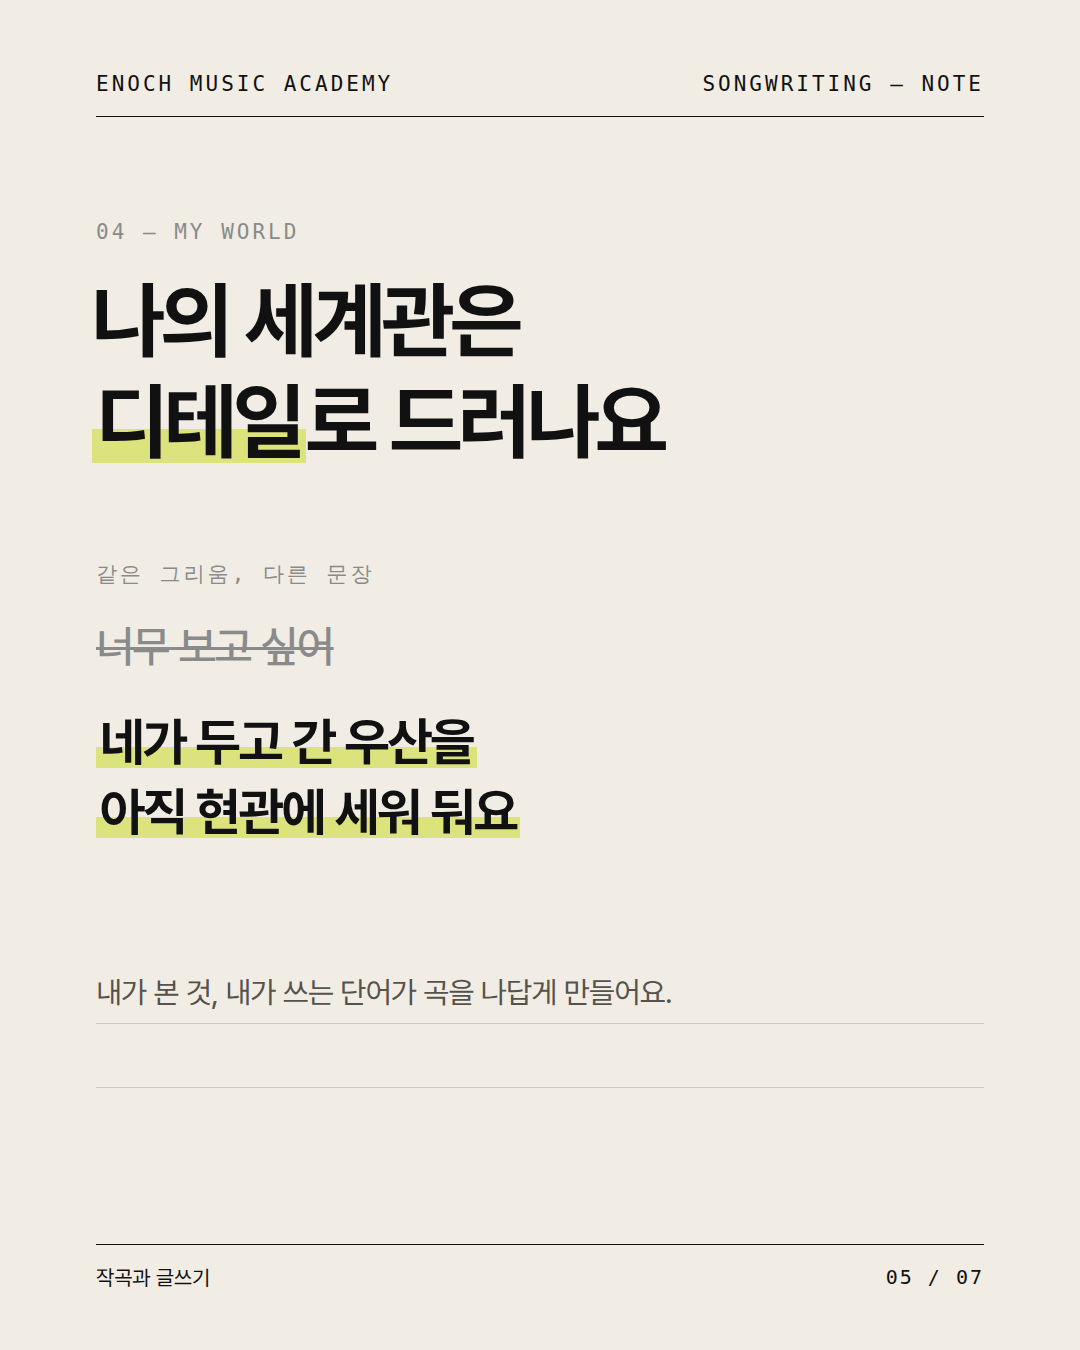
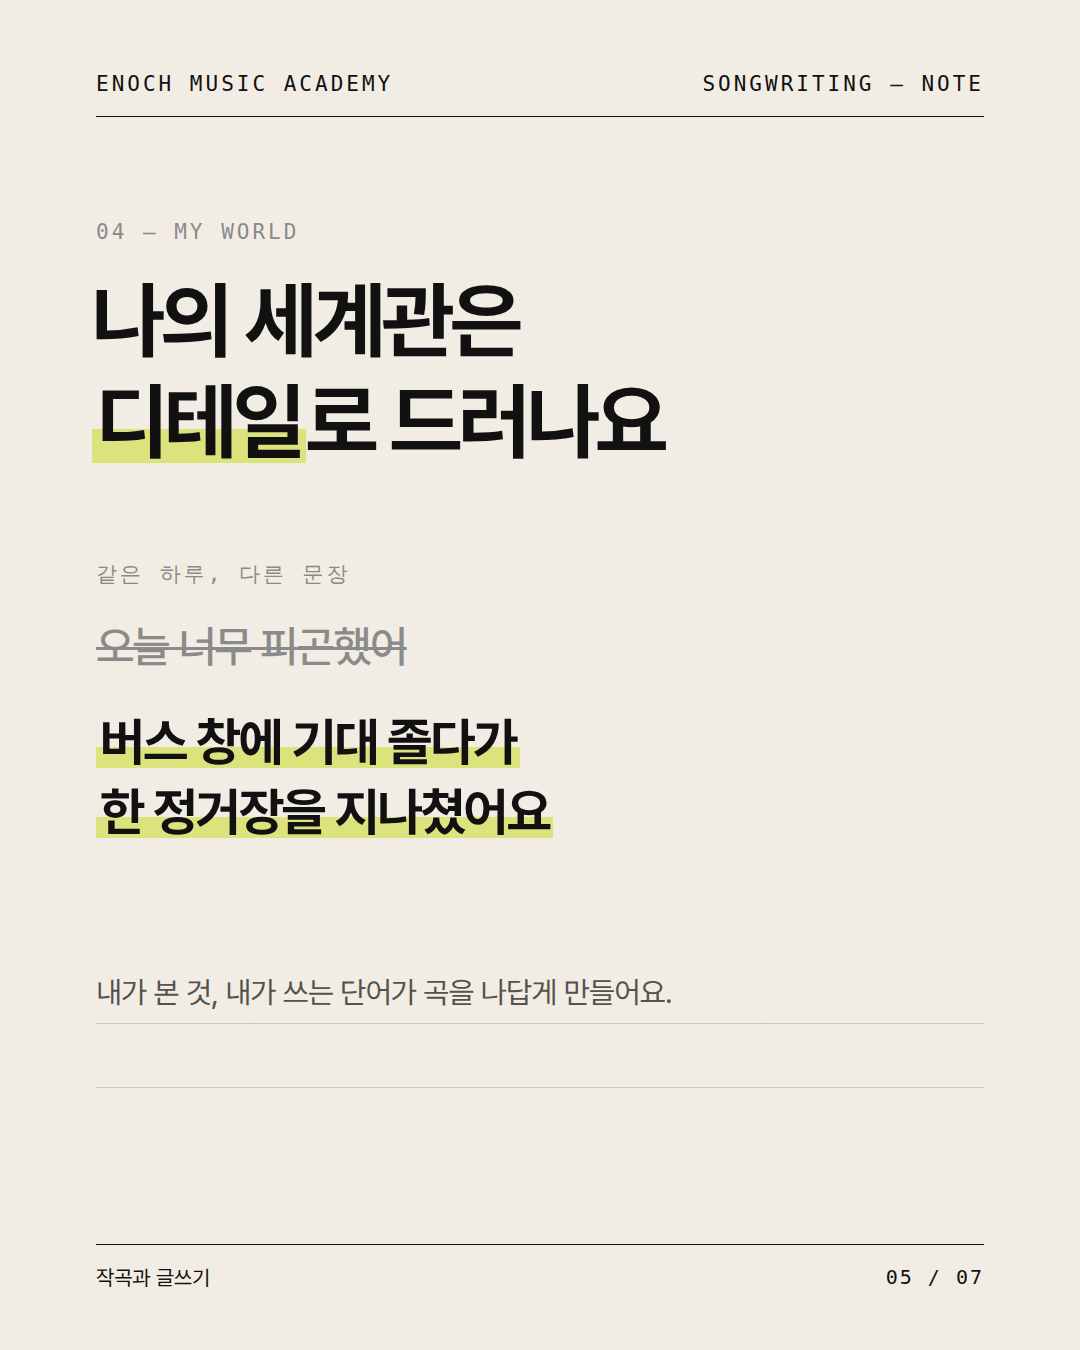
작곡과 글쓰기: 5장 예시 문장을 담백한 일상(같은 하루)으로 교체
Claude-Session: https://claude.ai/code/session_01HGbZvgMeYrbU7mY8bwfjyb

Changed region(s): [[0.0917, 0.5289, 0.5194, 0.6222], [0.0917, 0.4667, 0.3972, 0.4978], [0.1528, 0.4044, 0.3361, 0.4356]]

diff --git a/output/작곡_글쓰기의힘/deck_note.html b/output/작곡_글쓰기의힘/deck_note.html
@@ -69,10 +69,10 @@ mark{background:linear-gradient(transparent 58%,var(--lime) 58%,var(--lime) 92%,
   <div class="hd"><span>ENOCH MUSIC ACADEMY</span><span>SONGWRITING — NOTE</span></div>
   <div class="k" style="position:absolute;left:96px;top:220px">04 — My World</div>
   <div class="h" style="position:absolute;left:92px;top:270px">나의 세계관은<br><mark>디테일</mark>로 드러나요</div>
-  <div class="k" style="position:absolute;left:96px;top:560px">같은 그리움, 다른 문장</div>
+  <div class="k" style="position:absolute;left:96px;top:560px">같은 하루, 다른 문장</div>
   <div style="position:absolute;left:96px;right:96px;top:620px">
-    <div class="del" style="font-size:44px;font-weight:500;letter-spacing:-1.5px">너무 보고 싶어</div>
-    <div style="margin-top:34px;font-size:52px;font-weight:700;letter-spacing:-2px;line-height:1.35"><mark>네가 두고 간 우산을</mark><br><mark>아직 현관에 세워 둬요</mark></div>
+    <div class="del" style="font-size:44px;font-weight:500;letter-spacing:-1.5px">오늘 너무 피곤했어</div>
+    <div style="margin-top:34px;font-size:52px;font-weight:700;letter-spacing:-2px;line-height:1.35"><mark>버스 창에 기대 졸다가</mark><br><mark>한 정거장을 지나쳤어요</mark></div>
   </div>
   <div class="note" style="top:960px;height:128px"><p>내가 본 것, 내가 쓰는 단어가 곡을 나답게 만들어요.</p></div>
   <div class="ft"><span>작곡과 글쓰기</span><span>05 / 07</span></div>

diff --git a/output/작곡_글쓰기의힘/deck.html b/output/작곡_글쓰기의힘/deck.html
@@ -108,10 +108,10 @@
   <div class="hl" style="top:220px">나의 세계관은<br>디테일로 드러나요.</div>
   <div class="card" style="top:540px">
     <div class="meta" style="margin-top:0">04 · DETAIL</div>
-    <div class="ct">같은 그리움, 다른 문장</div>
+    <div class="ct">같은 하루, 다른 문장</div>
     <div class="cmp">
-      <div class="q q1"><small>누구나 쓰는 문장</small>너무 보고 싶어</div>
-      <div class="q q2"><small>나만 쓸 수 있는 문장</small>네가 두고 간 우산을<br>아직 현관에 세워 둬요</div>
+      <div class="q q1"><small>누구나 쓰는 문장</small>오늘 너무 피곤했어</div>
+      <div class="q q2"><small>나만 쓸 수 있는 문장</small>버스 창에 기대 졸다가<br>한 정거장을 지나쳤어요</div>
     </div>
     <div class="body" style="margin-top:22px;font-size:28px;color:var(--g)">내가 본 것, 내가 쓰는 단어가 곡을 나답게 만들어요.</div>
   </div>

diff --git a/output/작곡_글쓰기의힘/deck_editorial.html b/output/작곡_글쓰기의힘/deck_editorial.html
@@ -135,10 +135,10 @@
   <div class="hl" style="top:220px">나의 세계관은<br>디테일로 드러나요.</div>
   <div class="card" style="top:540px">
     <div class="meta" style="margin-top:0">04 · DETAIL</div>
-    <div class="ct">같은 그리움, 다른 문장</div>
+    <div class="ct">같은 하루, 다른 문장</div>
     <div class="cmp">
-      <div class="q q1"><small>누구나 쓰는 문장</small>너무 보고 싶어</div>
-      <div class="q q2"><small>나만 쓸 수 있는 문장</small>네가 두고 간 우산을<br>아직 현관에 세워 둬요</div>
+      <div class="q q1"><small>누구나 쓰는 문장</small>오늘 너무 피곤했어</div>
+      <div class="q q2"><small>나만 쓸 수 있는 문장</small>버스 창에 기대 졸다가<br>한 정거장을 지나쳤어요</div>
     </div>
     <div class="body" style="margin-top:22px;font-size:28px;color:var(--g)">내가 본 것, 내가 쓰는 단어가 곡을 나답게 만들어요.</div>
   </div>

diff --git a/output/작곡_글쓰기의힘/caption.md b/output/작곡_글쓰기의힘/caption.md
@@ -5,7 +5,7 @@
 
 같은 코드 진행으로도 수많은 곡이 만들어지지만, 곡을 다르게 만드는 건 그 안에 담긴 이야기예요. ENOCH 작곡 수업은 모든 과정이 1:1이라, 한 사람의 이야기에 맞춰 수업해요.
 
-매일 읽으면 같은 감정을 다르게 말하는 방법이 늘어나고, 매일 쓰면 내 말투가 생겨요. "너무 보고 싶어" 대신 "네가 두고 간 우산을 아직 현관에 세워 둬요"처럼, 내가 본 것과 내가 쓰는 단어가 곡을 나답게 만들어요.
+매일 읽으면 같은 감정을 다르게 말하는 방법이 늘어나고, 매일 쓰면 내 말투가 생겨요. "오늘 너무 피곤했어" 대신 "버스 창에 기대 졸다가 한 정거장을 지나쳤어요"처럼, 내가 본 것과 내가 쓰는 단어가 곡을 나답게 만들어요.
 
 이번 주에는 노트 한 권을 정해 보세요. 마음에 남은 한 줄을 옮겨 적고, 내 말로 바꿔 쓰고, 소리 내어 읽어 보세요.
 
